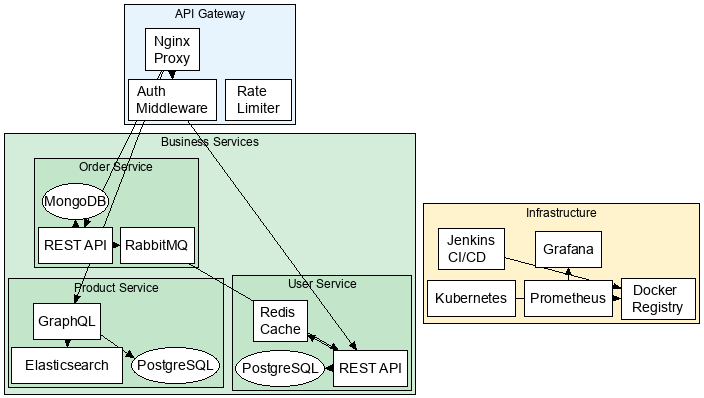
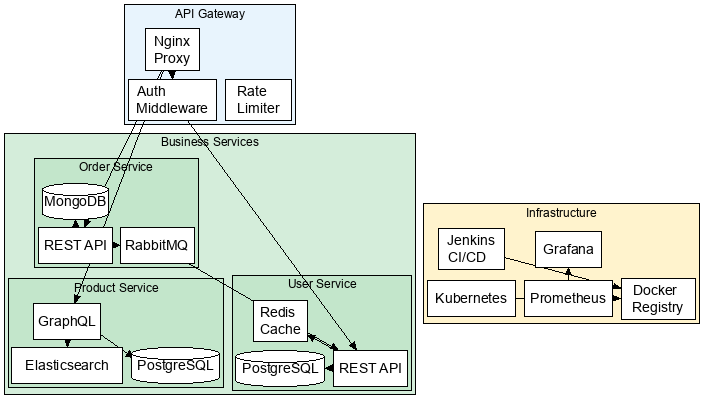
png_renderer: shape=doublecircle + cylinder
The SVG renderer's doublecircle / cylinder branches weren't
mirrored in the PNG renderer; both shapes were silently
falling through to the default ellipse case.

doublecircle (mirrors svg_renderer.py): inner filled ellipse
at radius ``r-4 pt``, outer empty ring at radius ``r``.  The
4-pt gap between strokes is what makes "double border"
visible — same convention as C ``lib/common/shapes.c``.

cylinder: rectangular body filled with the node's fillcolor,
top cap as a full ellipse outline visible above, bottom cap
as a half-arc on the front face.  ``cap_ry = max(h/3, 2 pt)``
matches Graphviz's ``YPAD = h/6`` half-extent convention.

Affected demos: fdp_demo.gv (gold doublecircle seed nodes
seed1/seed2/seed3), circo_demo.gv (lightgreen doublecircle
``idle`` node), osage_demo.gv (cylinder PostgreSQL/MongoDB
db nodes).  Regenerated those three PNGs in Docs/.

Test counts: 1291 passing (no regressions).

diff --git a/gvpy/render/png_renderer.py b/gvpy/render/png_renderer.py
@@ -175,8 +175,58 @@ def _draw_node(ctx: _Ctx, node: dict):
     elif shape in ("diamond", "Mdiamond"):
         pts = [(cx, cy - hh), (cx + hw, cy), (cx, cy + hh), (cx - hw, cy)]
         ctx.draw.polygon(pts, fill=fill_c, outline=stroke_c, width=pw)
-    elif shape in ("point", "circle", "doublecircle"):
+    elif shape in ("point", "circle"):
         ctx.draw.ellipse(rect, fill=fill_c, outline=stroke_c, width=pw)
+    elif shape == "doublecircle":
+        # C convention (lib/common/shapes.c) — inner filled
+        # circle, outer empty ring with a small white gap
+        # between strokes.  Mirrors the same fix in
+        # ``svg_renderer.py``: inner radius = outer - 4 pt.
+        gap = 4 * ctx.scale
+        inner = [cx - hw + gap, cy - hh + gap, cx + hw - gap, cy + hh - gap]
+        # Inner first (filled), outer second (empty) so the
+        # outer stroke is on top in the rasterized PNG.
+        ctx.draw.ellipse(inner, fill=fill_c, outline=stroke_c, width=pw)
+        ctx.draw.ellipse(rect, fill=None, outline=stroke_c, width=pw)
+    elif shape == "cylinder":
+        # Mirrors the SVG renderer's cylinder: rectangular body
+        # plus an elliptical top cap.  ``cap_ry`` follows
+        # Graphviz's ``YPAD = h/6`` convention (max 1/6 of the
+        # height, minimum 2 pt).
+        cap_ry = max(hh / 3.0, 2 * ctx.scale)  # full cap height = 2*ry
+        # Body rectangle (between the two cap centers).
+        body_top = cy - hh + cap_ry
+        body_bot = cy + hh - cap_ry
+        # Filled body via polygon (rect + bottom cap arc).
+        ctx.draw.rectangle(
+            [cx - hw, body_top, cx + hw, body_bot],
+            fill=fill_c, outline=None,
+        )
+        # Bottom cap (filled half-ellipse to fill the curve).
+        bot_cap = [cx - hw, body_bot - cap_ry,
+                   cx + hw, body_bot + cap_ry]
+        ctx.draw.ellipse(bot_cap, fill=fill_c, outline=None)
+        # Top cap (filled — covers the body's top straight edge).
+        top_cap = [cx - hw, cy - hh,
+                   cx + hw, cy - hh + 2 * cap_ry]
+        ctx.draw.ellipse(top_cap, fill=fill_c, outline=None)
+        # Now stroke the outline.  Sides:
+        ctx.draw.line(
+            [(cx - hw, body_top), (cx - hw, body_bot)],
+            fill=stroke_c, width=pw,
+        )
+        ctx.draw.line(
+            [(cx + hw, body_top), (cx + hw, body_bot)],
+            fill=stroke_c, width=pw,
+        )
+        # Bottom arc (visible front half).
+        ctx.draw.arc(
+            bot_cap, start=0, end=180, fill=stroke_c, width=pw,
+        )
+        # Top cap (full ellipse outline visible).
+        ctx.draw.ellipse(
+            top_cap, fill=None, outline=stroke_c, width=pw,
+        )
     else:
         # Default: ellipse
         ctx.draw.ellipse(rect, fill=fill_c, outline=stroke_c, width=pw)
